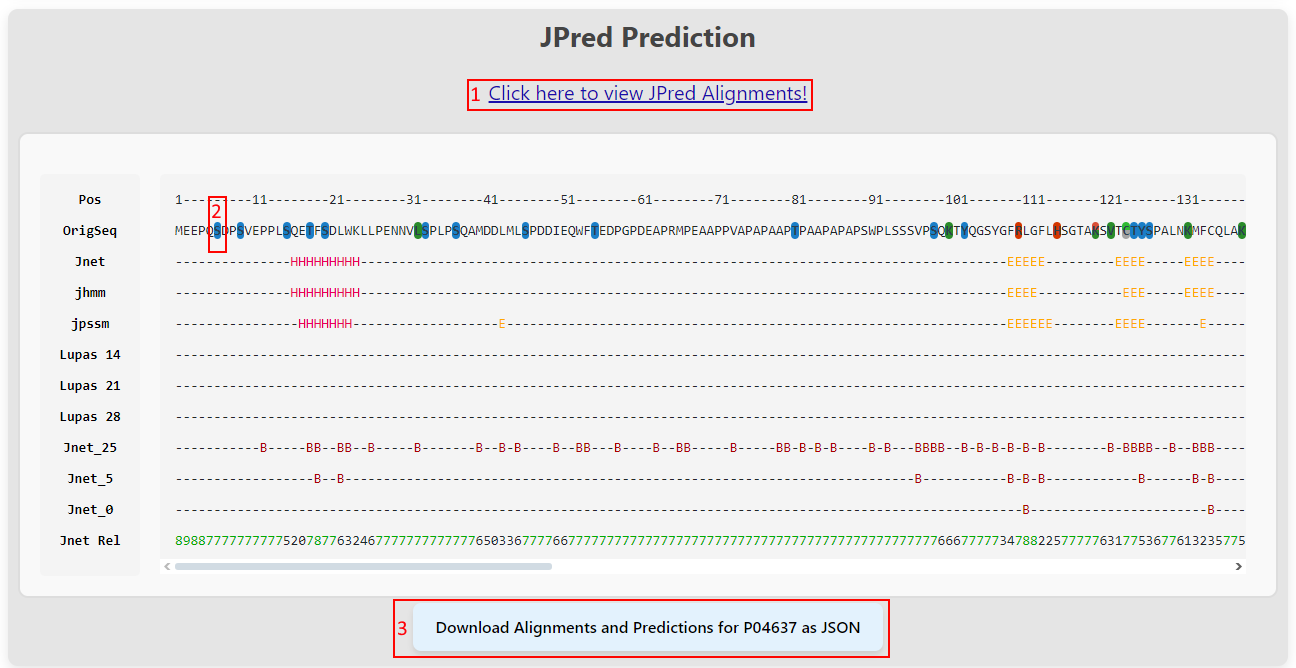
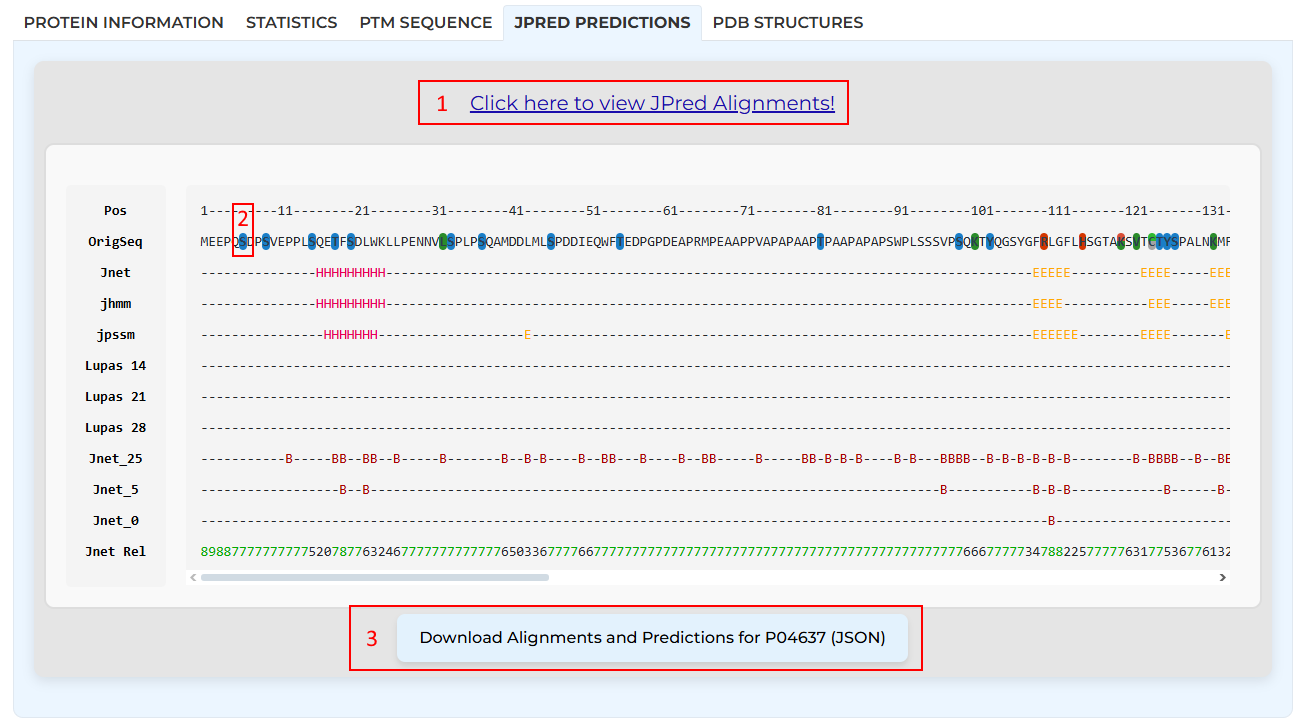
Final changes made

diff --git a/server/templates/search.html b/server/templates/search.html
@@ -81,25 +81,27 @@
         <div class="iframe-container main-content" id="iframeContainer">
 
             <!-- Nav tabs -->
-            <div id="proteinTabs" style="display: none;">
-                <ul class="nav nav-tabs" role="tablist" style="text-align: center; max-width: 1280px; margin: 0 auto;">
-                    <li class="nav-item" role="presentation">
-                        <a class="nav-link active" id="info-tab" data-bs-toggle="tab" href="#info" role="tab" aria-controls="info" aria-selected="true" style="color: #333;">Protein Information</a>
-                    </li>
-                    <li class="nav-item" role="presentation">
-                        <a class="nav-link" id="statistics-tab" data-bs-toggle="tab" href="#statistics" role="tab" aria-controls="statistics" aria-selected="false" style="color: #333;">Statistics</a>
-                    </li>
-                    <li class="nav-item" role="presentation">
-                        <a class="nav-link" id="ptm-sequence-tab" data-bs-toggle="tab" href="#ptm-sequence" role="tab" aria-controls="ptm-sequence" aria-selected="false" style="color: #333;">PTM Sequence</a>
-                    </li>
-                    <li class="nav-item" role="presentation">
-                        <a class="nav-link" id="jpred-tab" data-bs-toggle="tab" href="#jpred" role="tab" aria-controls="jpred" aria-selected="false" style="color: #333;">JPred Predictions</a>
-                    </li>
-                    <li class="nav-item" role="presentation">
-                        <a class="nav-link" id="pdb-tab" data-bs-toggle="tab" href="#pdb" role="tab" aria-controls="pdb" aria-selected="false" style="color: #333;">PDB Structures</a>
-                    </li>
-                </ul>
-            </div>
+            <div id="tabsHider">
+                <div id="proteinTabs" style="display: none;">
+                    <ul class="nav nav-tabs" role="tablist" style="text-align: center; max-width: 1280px; margin: 0 auto;">
+                        <li class="nav-item" role="presentation">
+                            <a class="nav-link active" id="info-tab" data-bs-toggle="tab" href="#info" role="tab" aria-controls="info" aria-selected="true" style="color: #333;">Protein Information</a>
+                        </li>
+                        <li class="nav-item" role="presentation">
+                            <a class="nav-link" id="statistics-tab" data-bs-toggle="tab" href="#statistics" role="tab" aria-controls="statistics" aria-selected="false" style="color: #333;">Statistics</a>
+                        </li>
+                        <li class="nav-item" role="presentation">
+                            <a class="nav-link" id="ptm-sequence-tab" data-bs-toggle="tab" href="#ptm-sequence" role="tab" aria-controls="ptm-sequence" aria-selected="false" style="color: #333;">PTM Sequence</a>
+                        </li>
+                        <li class="nav-item" role="presentation">
+                            <a class="nav-link" id="jpred-tab" data-bs-toggle="tab" href="#jpred" role="tab" aria-controls="jpred" aria-selected="false" style="color: #333;">JPred Predictions</a>
+                        </li>
+                        <li class="nav-item" role="presentation">
+                            <a class="nav-link" id="pdb-tab" data-bs-toggle="tab" href="#pdb" role="tab" aria-controls="pdb" aria-selected="false" style="color: #333;">PDB Structures</a>
+                        </li>
+                    </ul>
+                </div>
+            </div>            
 
             <div id="iframeLoader"></div> <!-- Loader class here -->
             <h1 id="iframeData" style="text-align: center; font-size: 28px; color: #444; font-weight: bold;"></h1>
@@ -159,11 +161,11 @@
                     <div id="foundProtein" style="position: relative; display: none; padding-bottom: 20px;">
                         <div class="protein-info-container">
                             <!-- <h1 style="text-align: center; font-size: 28px; color: #444; font-weight: bold; margin: 20px;">Protein PTM Sequence</h1> -->
-                            <div class="protein-info-container" id="uniprotSequence" style="width:70%; background: #efefef;"></div>
-                            <div id="detailsPanel" class="details-panel" style="margin-top: 40px; background: #eaf0f7;">
+                            <div class="protein-info-container" id="uniprotSequence" style="width:80%; background: #efefef;"></div>
+                            <div id="detailsPanel" class="details-panel" style="margin-top: 20px; background: #eaf0f7; width: 80%;">
                                 <h3>Click on a highlighted residue to view its details!</h3>
                             </div>
-                            <p class="protein-statistics-container" id="iframeData2" style="padding-top: 20px; padding-bottom: 20px; width: 70%; margin: 20px auto; background: #f3f3f3;"></p>
+                            <p class="protein-statistics-container" id="iframeData2" style="padding-top: 20px; padding-bottom: 20px; width: 80%; margin: 20px auto; background: #f3f3f3;"></p>
                             <div class="sequence-displayer" id="sequenceDisplayer"></div>
                             <div id="ptmSearchContainer" style="margin-top: 20px;">
                                 <p id="iframeData3" style="background: #e8e8e8;"></p>
@@ -246,14 +248,16 @@
     <footer class="footer bg-light py-3" style="padding-top: 20px;">
         <div class="container text-center">
             <p class="mb-0">This website is free and open to all users and there is no login requirement.</p>
-            <p class="mb-0">Biomedical Informatics & Engineering Research Laboratory, Lahore University of Management Sciences, DHA, Lahore, Pakistan. +92 (42) 3560 8352</p>
-            <p class="mb-0" id="footerYear"><a href="http://birl.lums.edu.pk/">© 2024 BIRL</a></p>
+            <p class="mb-0">Biomedical Informatics & Engineering Research Laboratory, Lahore University of Management Sciences</p>
+            <p class="mb-0">DHA, Lahore, Pakistan</p>
+            <p class="mb-0">+92 (42) 3560 8352</p>
+            <p class="mb-0" id="footerYear"><a href="http://birl.lums.edu.pk/"></a></p>
         </div>
     </footer>
     <script>
         // Get the current year and set it to the span
         const date = new Date().getFullYear();
         document.getElementById("footerYear").innerHTML = `<a href="http://birl.lums.edu.pk/">© ${date} BIRL</a>`
-      </script>
+    </script>
 </body>
 </html>

diff --git a/server/templates/download.html b/server/templates/download.html
@@ -26,32 +26,31 @@
         </ul>
     </nav>
 
-    <div class="container custom-download mt-4" style="background-color: #d8ecff">
+    <div class="container custom-download mt-4" style="display: flexbox; background-color: #d8ecff;">
         <h4 style="text-align: center;">Download Positional Frequency Matrix Tables</h4>
         
-        <div class="mb-3" id="mod">
-            <label for="ptmSelect" class="form-label">Select PTM:</label>
-            <select id="ptmSelect" class="form-select"></select>
+        <div class="mb-3 d-flex align-items-center gap-2" id="mod">
+            <label for="ptmSelect" class="form-label" style="width: 55%;">Select PTM:</label>
+            <select id="ptmSelect" class="form-control"></select>
         </div>
 
-        <div class="mb-3" id="aa">
-            <label for="aaSelect" class="form-label">Select Amino Acid:</label>
-            <select id="aaSelect" class="form-select">
+        <div class="mb-3 d-flex align-items-center gap-2" id="aa">
+            <label for="aaSelect" class="form-label" style="width: 55%;">Select Amino Acid:</label>
+            <select id="aaSelect" class="form-control">
             </select>
         </div>
 
-        <div class="mb-3" id="tab">
-            <label for="tableSelect" class="form-label">Select the type of table to download:</label>
-            <select id="tableSelect" class="form-select">
+        <div class="mb-3 d-flex align-items-center gap-2" id="tab">
+            <label for="tableSelect" class="form-label" style="width: 55%;">Select matrix type:</label>
+            <select id="tableSelect" class="form-control">
                 <option>Frequency</option>
                 <option>Log Odd (base e)</option>
-                <!-- <option>Log Odd (base 2)</option> -->
             </select>
         </div>
 
-        <div class="mb-3" id="download">
-            <label for="downloadSelect" class="form-label">Select download option:</label>
-            <select id="downloadSelect" class="form-select">
+        <div class="mb-3 d-flex align-items-center gap-2" id="download">
+            <label for="downloadSelect" class="form-label" style="width: 55%;">Select download option:</label>
+            <select id="downloadSelect" class="form-control">
                 <option>PNG</option>
                 <option>PDF</option>
                 <option>SVG</option>
@@ -60,22 +59,24 @@
             </select>
         </div>
 
-        <button id="downloadButton" class="btn btn-primary" onclick="saveFile()">Download</button>
+        <button id="downloadButton" class="btn btn-primary" style="margin: 0 auto;" onclick="saveFile()">Download</button>
     </div>
 
-    <div id="ptmTable" style="margin-left: auto; margin-right: auto;"></div>
+    <div id="ptmTable" style="margin-left: auto; margin-right: auto; margin-top: 20px; margin-bottom: 20px;"></div>
 
     <footer class="footer bg-light py-3" style="padding-top: 20px;">
         <div class="container text-center">
             <p class="mb-0">This website is free and open to all users and there is no login requirement.</p>
-            <p class="mb-0">Biomedical Informatics & Engineering Research Laboratory, Lahore University of Management Sciences, DHA, Lahore, Pakistan. +92 (42) 3560 8352</p>
-            <p class="mb-0" id="footerYear"><a href="http://birl.lums.edu.pk/">© 2024 BIRL</a></p>
+            <p class="mb-0">Biomedical Informatics & Engineering Research Laboratory, Lahore University of Management Sciences</p>
+            <p class="mb-0">DHA, Lahore, Pakistan</p>
+            <p class="mb-0">+92 (42) 3560 8352</p>
+            <p class="mb-0" id="footerYear"><a href="http://birl.lums.edu.pk/"></a></p>
         </div>
     </footer>
     <script>
         // Get the current year and set it to the span
         const date = new Date().getFullYear();
         document.getElementById("footerYear").innerHTML = `<a href="http://birl.lums.edu.pk/">© ${date} BIRL</a>`
-      </script>
+    </script>
 </body>
 </html>

diff --git a/server/templates/propensity.html b/server/templates/propensity.html
@@ -72,13 +72,13 @@
                     <a onclick="exampleSearch(this)" class="index-options">VP26A_MOUSE</a>
                     <a onclick="exampleSearch(this)" class="index-options">O14639-4</a>
                     <a onclick="exampleSearch(this)" class="index-options">P25311</a> -->
-                    <a onclick="exampleSearch(this)" class="index-options">ACERQHLSAGNKLRG <strong>(Histone H2A)</strong></a>
+                    <a onclick="exampleSearch(this)" class="index-options">ACERQHLSAGNKLRG <strong>(Histone H2A)</strong></a><br><br>
                     <a onclick="exampleSearch(this)" class="index-options">RGEDMSMQALSTL <strong>(20S Proteasome - β Subunit)</strong></a><br><br>
                     <a onclick="exampleSearch(this)" class="index-options">QKQLEDKVEELKPLSQEKS <strong>(p53 Tumor Suppressor)</strong></a><br><br>
                 </div>
 
                 <div class="input-group position-relative" style="width: 400px; margin: 20px auto;">
-                    <input class="form-control" id="ptm_value" type="text" placeholder="Select Post-Translational Modification" style="text-align: center;" readonly>
+                    <input class="form-control" id="ptm_value" type="text" placeholder="Select Post-Translational Modification" style="text-align: center; background: white;" readonly>
                     <div id="suggestions" class="suggestions-box" style="position: absolute; top: 100%; left: 0; right: 0; z-index: 1000; background: white; border: 1px solid #ccc; display: none;"></div>
                 </div>
 
@@ -130,14 +130,16 @@
     <footer class="footer bg-light py-3" style="padding-top: 20px;">
         <div class="container text-center">
             <p class="mb-0">This website is free and open to all users and there is no login requirement.</p>
-            <p class="mb-0">Biomedical Informatics & Engineering Research Laboratory, Lahore University of Management Sciences, DHA, Lahore, Pakistan. +92 (42) 3560 8352</p>
-            <p class="mb-0" id="footerYear"><a href="http://birl.lums.edu.pk/">© 2024 BIRL</a></p>
+            <p class="mb-0">Biomedical Informatics & Engineering Research Laboratory, Lahore University of Management Sciences</p>
+            <p class="mb-0">DHA, Lahore, Pakistan</p>
+            <p class="mb-0">+92 (42) 3560 8352</p>
+            <p class="mb-0" id="footerYear"><a href="http://birl.lums.edu.pk/"></a></p>
         </div>
     </footer>
     <script>
         // Get the current year and set it to the span
         const date = new Date().getFullYear();
         document.getElementById("footerYear").innerHTML = `<a href="http://birl.lums.edu.pk/">© ${date} BIRL</a>`
-      </script>
+    </script>
 </body>
 </html>

diff --git a/server/templates/integration.html b/server/templates/integration.html
@@ -47,7 +47,7 @@
         <p style="text-align: justify;">
             In addition to a web interface, we also offer a Python script for getting started with using our API calls in your system. You can download the script by clicking the button below:
             <div style="text-align: center;">
-                <a href="/download_script" class="additional-button" download="ptmkb_get_started.py">Download Script</a>
+                <a href="/download_script" class="btn btn-primary" download="ptmkb_get_started.py">Download Script</a>
             </div>
         </p>
             
@@ -60,15 +60,17 @@
     <footer class="footer bg-light py-3" style="padding-top: 20px;">
         <div class="container text-center">
             <p class="mb-0">This website is free and open to all users and there is no login requirement.</p>
-            <p class="mb-0">Biomedical Informatics & Engineering Research Laboratory, Lahore University of Management Sciences, DHA, Lahore, Pakistan. +92 (42) 3560 8352</p>
-            <p class="mb-0" id="footerYear"><a href="http://birl.lums.edu.pk/">© 2024 BIRL</a></p>
+            <p class="mb-0">Biomedical Informatics & Engineering Research Laboratory, Lahore University of Management Sciences</p>
+            <p class="mb-0">DHA, Lahore, Pakistan</p>
+            <p class="mb-0">+92 (42) 3560 8352</p>
+            <p class="mb-0" id="footerYear"><a href="http://birl.lums.edu.pk/"></a></p>
         </div>
     </footer>
     <script>
         // Get the current year and set it to the span
         const date = new Date().getFullYear();
         document.getElementById("footerYear").innerHTML = `<a href="http://birl.lums.edu.pk/">© ${date} BIRL</a>`
-      </script>
+    </script>
 </body>
 
 </html>

diff --git a/server/static/search.js b/server/static/search.js
@@ -3162,6 +3162,10 @@ async function search() {
         if (currentJobAbortController) {
             currentJobAbortController.abort();
         }
+        // document.getElementById('tabsHider').style.display = 'none';
+        Array.from(document.getElementsByClassName('tab-pane')).forEach(elem => {
+            elem.style.border = 'none';
+        });
         document.getElementById('info').style.background = '#fff';
         document.getElementById('proteinTabs').setAttribute('style', 'display: none;');
         document.getElementById('afProfile').style.display = 'none';
@@ -3301,6 +3305,12 @@ async function search() {
                             updateStats(updatedPtmData)
                             getJPredInference(json.proteinSequence, json.uniProtAC, updatedPtmData);
 
+                            document.getEle
+                            // document.getElementById('tabsHider').style.display = 'block';
+                            Array.from(document.getElementsByClassName('tab-pane')).forEach(elem => {
+                                elem.style.border = '1px solid #e0e8f0';
+                                elem.style.borderTop = 'none';
+                            });
                             document.getElementById('info').style.background = '#ecf6ff';
                             document.getElementById('search_field').style.display = 'none';
                             document.getElementById('sequenceDisplayer').setAttribute('style', "display: block;");

diff --git a/server/static/download.js b/server/static/download.js
@@ -206,6 +206,7 @@ document.addEventListener("DOMContentLoaded", async () => {
     document.getElementById('download').style.display = 'none';
     document.getElementById('downloadButton').style.display = 'none';
     document.getElementById('ptmSelect').value = '';
+    document.getElementById('tableSelect').value = '';
     checkForLogin();
     tables = await fetch('/ptmkb/all_ptms_tables').then(res => res.json());
     Object.keys(tables).forEach(key => {
@@ -311,9 +312,17 @@ async function displayTablesList() {
     document.getElementById('ptmTable').innerHTML = '';
     document.getElementById('download').style.display = 'none';
     document.getElementById('downloadButton').style.display = 'none';
-    document.getElementById('tableSelect').value = '';
     document.getElementById('tab').style.display = 'block';
-    document.getElementById('tableSelect').addEventListener('change', displayTableAndDownload)
+    document.getElementById('tableSelect').addEventListener('change', displayTableAndDownload);
+    
+
+    const ptm = document.getElementById('ptmSelect').value;
+    const aa = document.getElementById('aaSelect').value;
+    const table = document.getElementById('tableSelect').value;
+
+    if (ptm && aa && table) {
+        displayTableAndDownload();
+    }
 }
 
 async function displayTableAndDownload() {

diff --git a/server/templates/index.html b/server/templates/index.html
@@ -240,14 +240,16 @@
         <footer class="footer bg-light py-3" style="padding-top: 20px;">
             <div class="container text-center">
                 <p class="mb-0">This website is free and open to all users and there is no login requirement.</p>
-                <p class="mb-0">Biomedical Informatics & Engineering Research Laboratory, Lahore University of Management Sciences, DHA, Lahore, Pakistan. +92 (42) 3560 8352</p>
-                <p class="mb-0" id="footerYear"><a href="http://birl.lums.edu.pk/">© 2024 BIRL</a></p>
+                <p class="mb-0">Biomedical Informatics & Engineering Research Laboratory, Lahore University of Management Sciences</p>
+                <p class="mb-0">DHA, Lahore, Pakistan</p>
+                <p class="mb-0">+92 (42) 3560 8352</p>
+                <p class="mb-0" id="footerYear"><a href="http://birl.lums.edu.pk/"></a></p>
             </div>
         </footer>
         <script>
             // Get the current year and set it to the span
             const date = new Date().getFullYear();
             document.getElementById("footerYear").innerHTML = `<a href="http://birl.lums.edu.pk/">© ${date} BIRL</a>`
-          </script>
+        </script>
     </body>
 </html>

diff --git a/server/templates/about.html b/server/templates/about.html
@@ -136,15 +136,17 @@
     <footer class="footer bg-light py-3" style="padding-top: 20px;">
         <div class="container text-center">
             <p class="mb-0">This website is free and open to all users and there is no login requirement.</p>
-            <p class="mb-0">Biomedical Informatics & Engineering Research Laboratory, Lahore University of Management Sciences, DHA, Lahore, Pakistan. +92 (42) 3560 8352</p>
-            <p class="mb-0" id="footerYear"><a href="http://birl.lums.edu.pk/">© 2024 BIRL</a></p>
+            <p class="mb-0">Biomedical Informatics & Engineering Research Laboratory, Lahore University of Management Sciences</p>
+            <p class="mb-0">DHA, Lahore, Pakistan</p>
+            <p class="mb-0">+92 (42) 3560 8352</p>
+            <p class="mb-0" id="footerYear"><a href="http://birl.lums.edu.pk/"></a></p>
         </div>
     </footer>
     <script>
         // Get the current year and set it to the span
         const date = new Date().getFullYear();
         document.getElementById("footerYear").innerHTML = `<a href="http://birl.lums.edu.pk/">© ${date} BIRL</a>`
-      </script>
+    </script>
 </body>
 
 </html>

diff --git a/server/templates/docs.html b/server/templates/docs.html
@@ -393,15 +393,17 @@
     <footer class="footer bg-light py-3" style="padding-top: 20px;">
         <div class="container text-center">
             <p class="mb-0">This website is free and open to all users and there is no login requirement.</p>
-            <p class="mb-0">Biomedical Informatics & Engineering Research Laboratory, Lahore University of Management Sciences, DHA, Lahore, Pakistan. +92 (42) 3560 8352</p>
-            <p class="mb-0" id="footerYear"><a href="http://birl.lums.edu.pk/">© 2024 BIRL</a></p>
+            <p class="mb-0">Biomedical Informatics & Engineering Research Laboratory, Lahore University of Management Sciences</p>
+            <p class="mb-0">DHA, Lahore, Pakistan</p>
+            <p class="mb-0">+92 (42) 3560 8352</p>
+            <p class="mb-0" id="footerYear"><a href="http://birl.lums.edu.pk/"></a></p>
         </div>
     </footer>
     <script>
         // Get the current year and set it to the span
         const date = new Date().getFullYear();
         document.getElementById("footerYear").innerHTML = `<a href="http://birl.lums.edu.pk/">© ${date} BIRL</a>`
-      </script>
+    </script>
 </body>
 
 </html>

diff --git a/server/templates/signin_signup.html b/server/templates/signin_signup.html
@@ -64,14 +64,16 @@
     <footer class="footer bg-light py-3" style="padding-top: 20px;">
         <div class="container text-center">
             <p class="mb-0">This website is free and open to all users and there is no login requirement.</p>
-            <p class="mb-0">Biomedical Informatics & Engineering Research Laboratory, Lahore University of Management Sciences, DHA, Lahore, Pakistan. +92 (42) 3560 8352</p>
-            <p class="mb-0" id="footerYear"><a href="http://birl.lums.edu.pk/">© 2024 BIRL</a></p>
+            <p class="mb-0">Biomedical Informatics & Engineering Research Laboratory, Lahore University of Management Sciences</p>
+            <p class="mb-0">DHA, Lahore, Pakistan</p>
+            <p class="mb-0">+92 (42) 3560 8352</p>
+            <p class="mb-0" id="footerYear"><a href="http://birl.lums.edu.pk/"></a></p>
         </div>
     </footer>
     <script>
         // Get the current year and set it to the span
         const date = new Date().getFullYear();
         document.getElementById("footerYear").innerHTML = `<a href="http://birl.lums.edu.pk/">© ${date} BIRL</a>`
-      </script>
+    </script>
 </body>
 </html>

diff --git a/server/static/styles.css b/server/static/styles.css
@@ -195,7 +195,8 @@ iframe {
 
 .tab-content > .tab-pane {
     background-color: #ecf6ff;
-    /* border: 1px solid #e0e8f0; */
+    border: 1px solid #e0e8f0;
+    border-top: none;
     border-radius: 10px;
     border-top-left-radius: 0;
     border-top-right-radius: 0;
@@ -1595,7 +1596,7 @@ iframe {
     border-color: #0056b3;
     box-shadow: 0 0 5px rgba(0, 123, 255, 0.5);
 }
-
+/* 
 .custom-download #downloadButton {
     width: 100%;
     margin-top: 20px;
@@ -1611,7 +1612,7 @@ iframe {
 .custom-download #downloadButton:hover {
     background-color: #0056b3;
     transform: translateY(-2px);
-}
+} */
 
 /* ABOUT PAGE */
 
